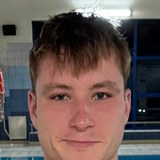
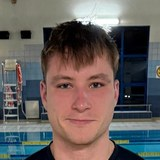
Kółko Kuby: cała głowa w kadrze; nowa opinia Dagmary P. (strona główna, dzieci) zamiast Aleksandry C. (do akceptacji)
Claude-Session: https://claude.ai/code/session_01YYdYvt43JtTzH3dxUKE7qW

diff --git a/nauka-plywania-dla-dzieci.html b/nauka-plywania-dla-dzieci.html
@@ -817,6 +817,11 @@ footer a:hover{color:var(--deep-fg)}
       <ul class="rev-grid">
         <li><figure class="rev">
           <span class="stars" aria-hidden="true">★★★★★</span>
+          <blockquote>„Syn jest zachwycony zajęciami, nie może doczekać się każdych kolejnych. Czuje się bardzo zaopiekowany, a my jako rodzice jesteśmy szczęśliwi, że tak chętnie bierze udział w zajęciach. Pełen profesjonalizm.”</blockquote>
+          <figcaption>Dagmara P.<span>opinia w Google</span></figcaption>
+        </figure></li>
+        <li><figure class="rev">
+          <span class="stars" aria-hidden="true">★★★★★</span>
           <blockquote>„Ma świetne podejście do dzieci i potrafi bardzo dobrze określić braki w technice, przy czym przedstawia bardzo konkretny plan działania.”</blockquote>
           <figcaption>Bartłomiej S.<span>opinia w Google</span></figcaption>
         </figure></li>
@@ -824,11 +829,6 @@ footer a:hover{color:var(--deep-fg)}
           <span class="stars" aria-hidden="true">★★★★★</span>
           <blockquote>„Pan Jakub przygotowuje syna do zawodów okręgowych z pełnym zaangażowaniem. Każde zajęcia świetnie przygotowane (…), wszystkie błędy są starannie poprawiane. Wszystko dokładnie wytłumaczone, a trening dostosowany pod dziecko.”</blockquote>
           <figcaption>Klaudia A.<span>opinia w Google</span></figcaption>
-        </figure></li>
-        <li><figure class="rev">
-          <span class="stars" aria-hidden="true">★★★★★</span>
-          <blockquote>„W idealnym świecie każdy trener ma taki poziom wiedzy i taką umiejętność przekazywania jej – przystępnie, w luźnej atmosferze, zarażając pasją.”</blockquote>
-          <figcaption>Aleksandra C.<span>opinia w Google</span></figcaption>
         </figure></li>
       </ul>
       <p class="rev-note">Wybrane opinie z wizytówki Woda &amp; Fitness w Google. Dotyczą całej szkoły, nie tylko jednego instruktora. <a href="https://www.google.com/maps/search/?api=1&amp;query=Woda+%26+Fitness+Jakub+Nachy%C5%82a" rel="noopener">Zobacz wszystkie opinie</a></p>

diff --git a/index.html b/index.html
@@ -812,8 +812,8 @@ footer a:hover{color:var(--deep-fg)}
         </figure></li>
         <li><figure class="rev">
           <span class="stars" aria-hidden="true">★★★★★</span>
-          <blockquote>„W idealnym świecie każdy trener ma taki poziom wiedzy i taką umiejętność przekazywania jej – przystępnie, w luźnej atmosferze, zarażając pasją.”</blockquote>
-          <figcaption>Aleksandra C.<span>opinia w Google</span></figcaption>
+          <blockquote>„Syn jest zachwycony zajęciami, nie może doczekać się każdych kolejnych. Czuje się bardzo zaopiekowany, a my jako rodzice jesteśmy szczęśliwi, że tak chętnie bierze udział w zajęciach. Pełen profesjonalizm.”</blockquote>
+          <figcaption>Dagmara P.<span>opinia w Google</span></figcaption>
         </figure></li>
         <li><figure class="rev">
           <span class="stars" aria-hidden="true">★★★★★</span>
